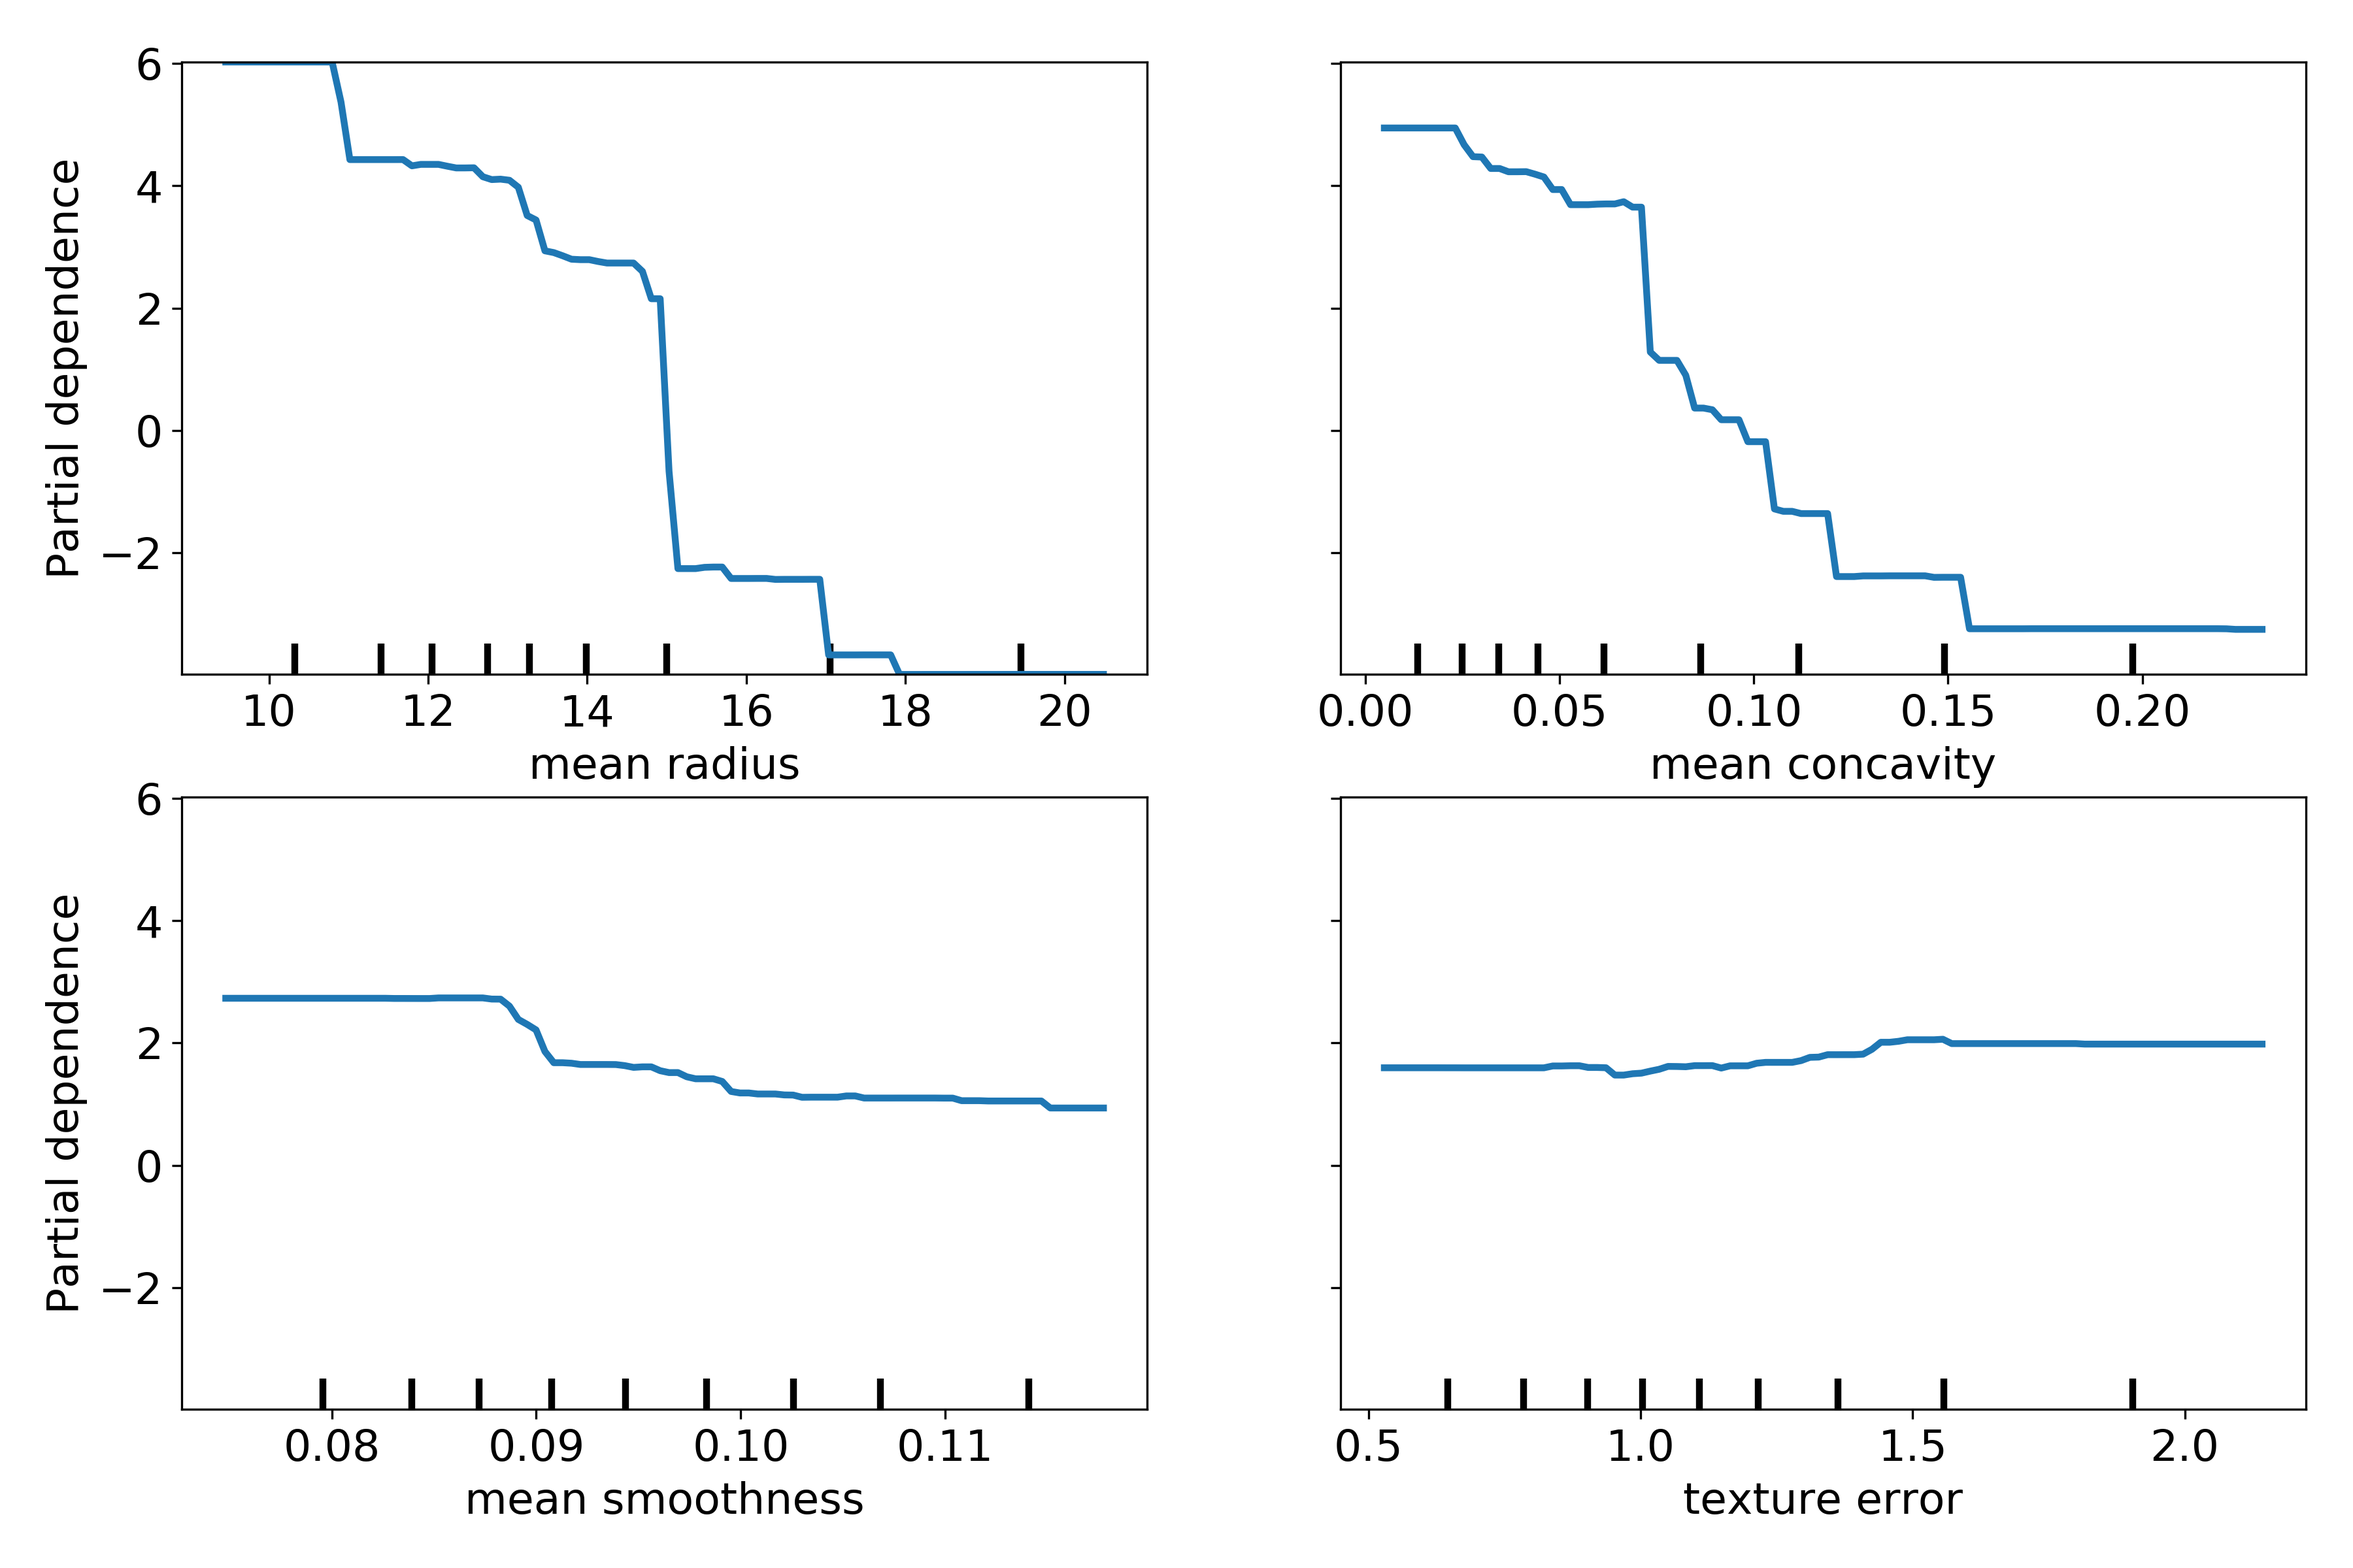
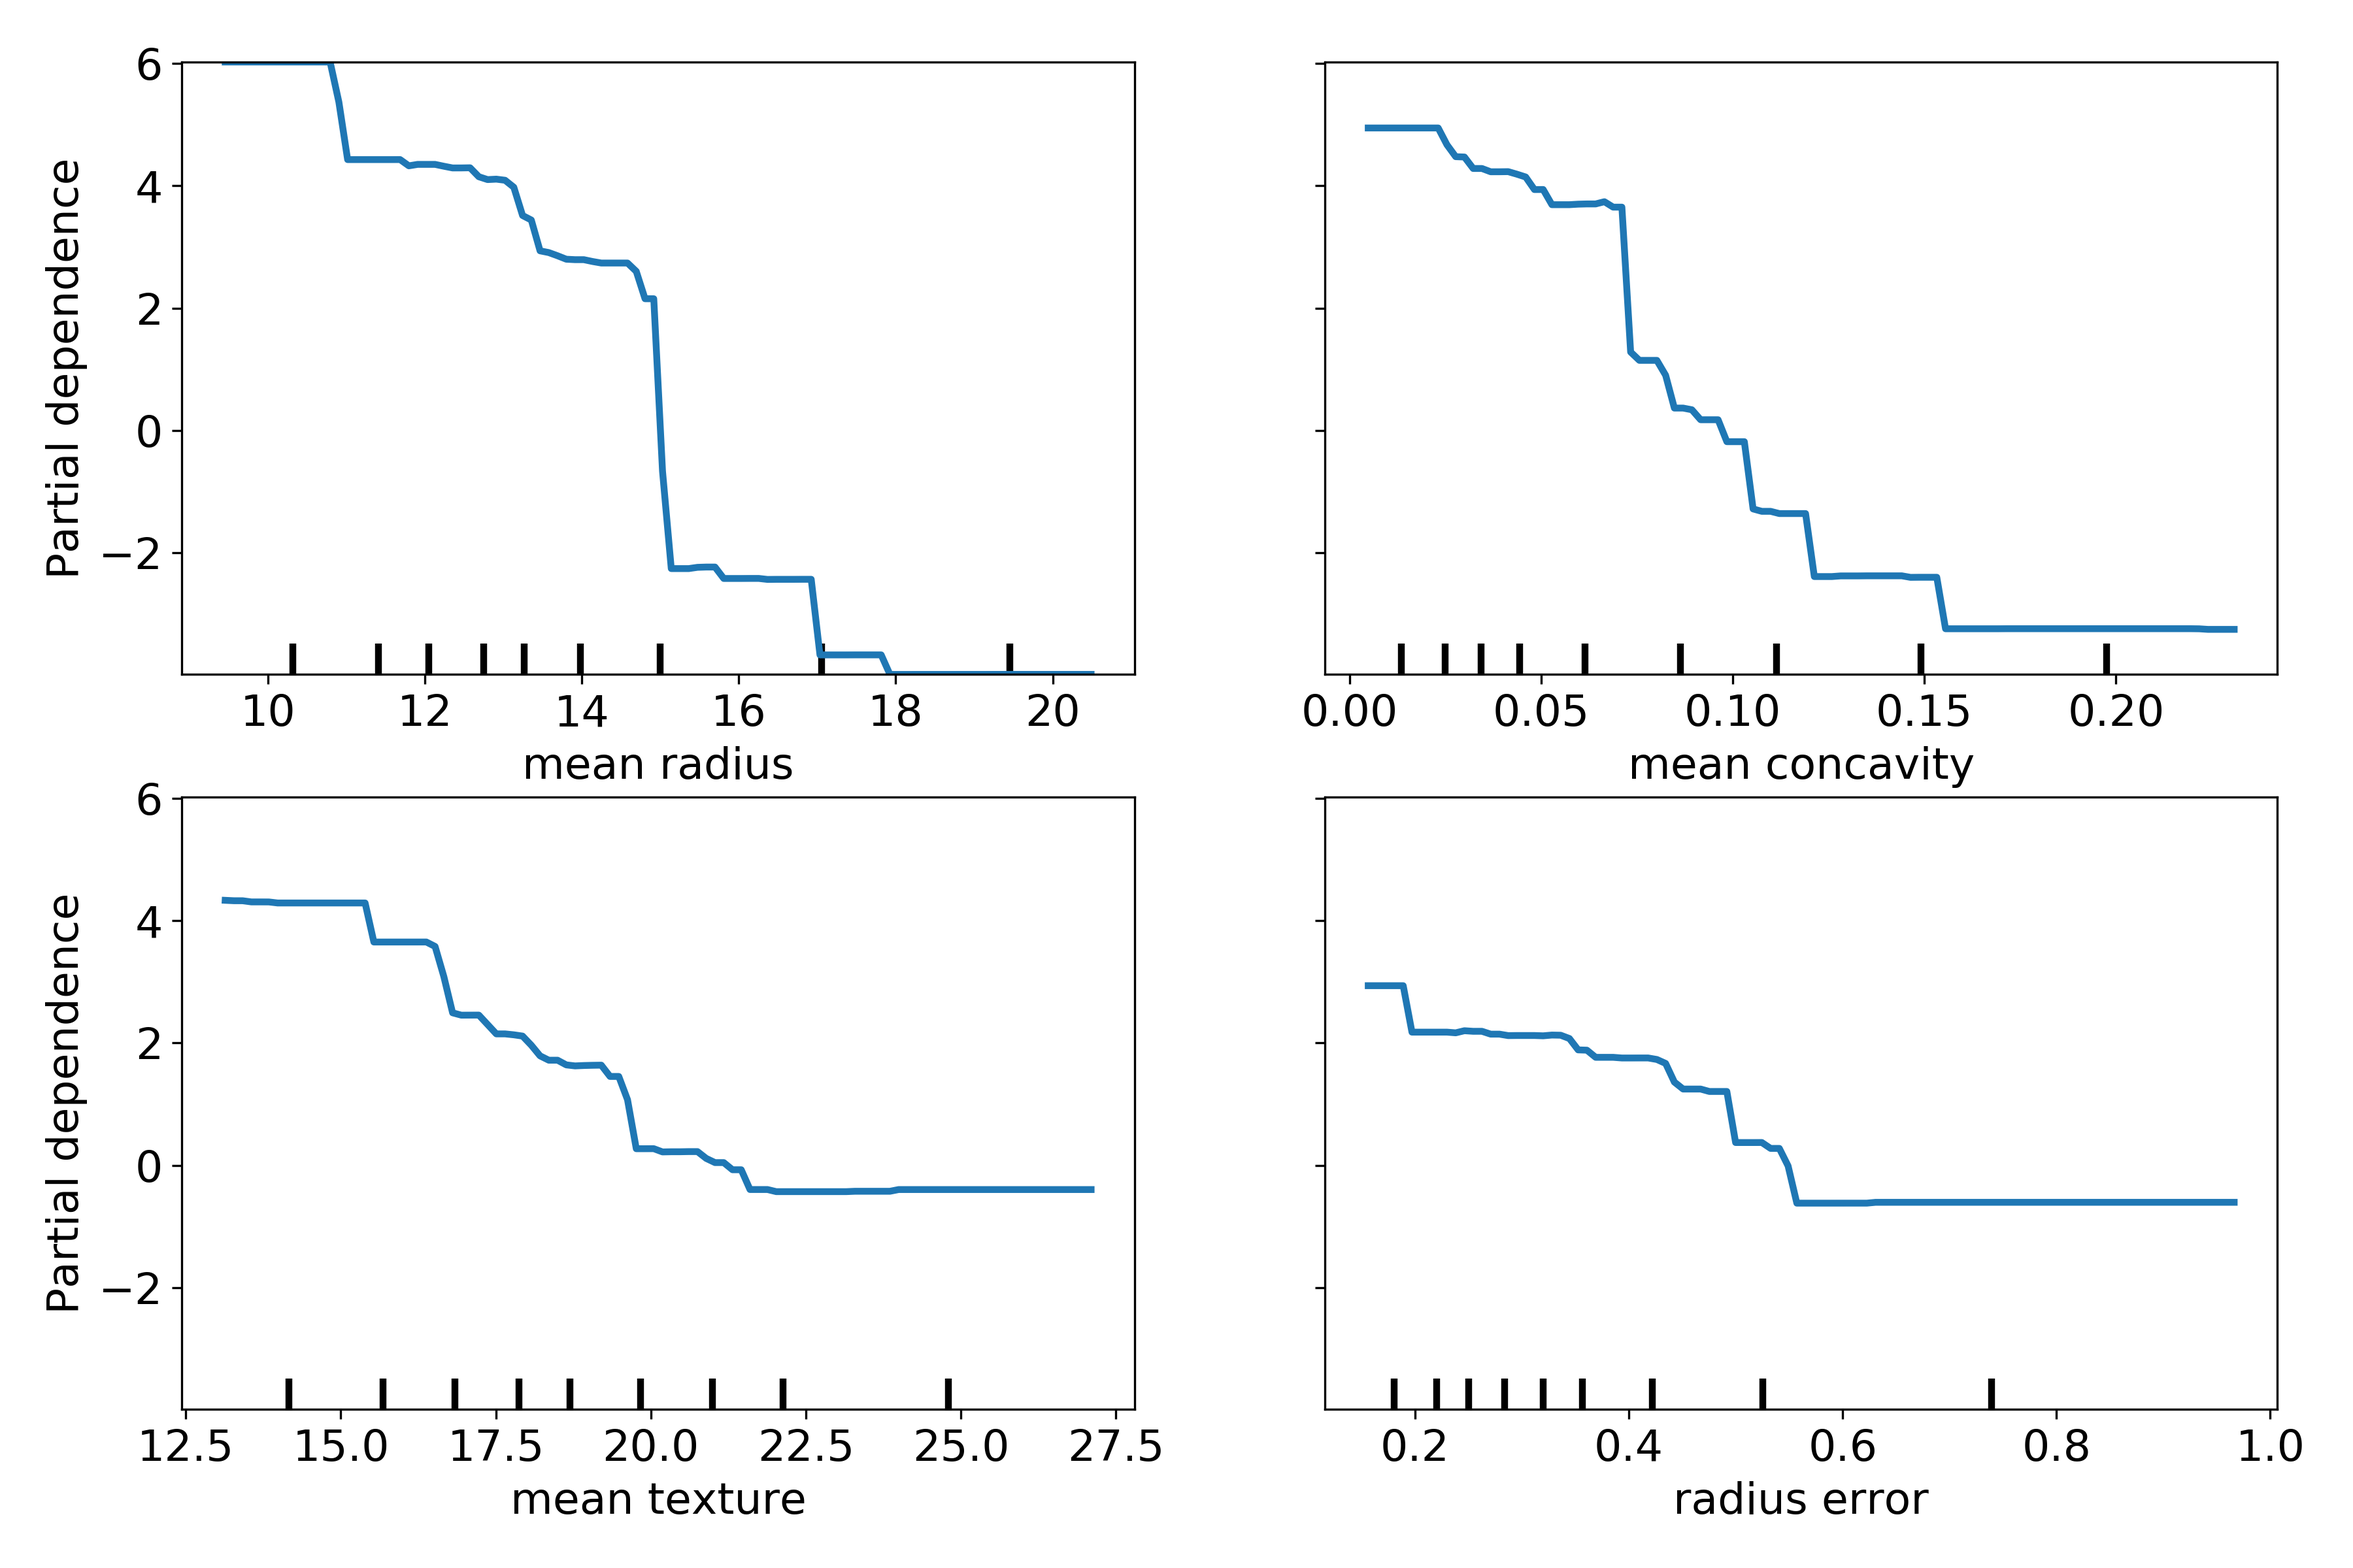
ENH Update

diff --git a/presentation.md b/presentation.md
@@ -10,6 +10,15 @@ Thomas J Fan
 Scikit-learn Core Developer
 @thomasjpfan
 
+# Supervised learning  📖
+
+$$
+y = f(X)
+$$
+
+- X of shape `(n_samples, n_features)`
+- y of shape `(n_samples,)`
+
 # scikit-learn API  🛠
 
 ```py
@@ -21,16 +30,9 @@ clf = HistGradientBoostingClassifier()
 clf.fit(X, y)
 
 clf.predict(X)
+
+clf.score(X, y)
 ```
-
-# Supervised learning  📖
-
-$$
-y = f(X)
-$$
-
-- X of shape `(n_samples, n_features)`
-- y of shape `(n_samples,)`
 
 # Tree?  🌳
 
@@ -41,12 +43,10 @@ $$
 ```py
 from sklearn.tree import DecisionTreeRegressor
 from sklearn.tree import DecisionTreeClassifier
-```
 
-- `max_depth=None`
-- `min_samples_split=2`
-- `min_samples_leaf=1`
-- etc...
+tree = DecisionTreeClassifier(max_depth=None,
+                              min_samples_leaf=1)
+```
 
 # Forest
 
@@ -113,7 +113,6 @@ rf_pruned.score(X_test, y_test)
 **Tree Building**
 
 - Pure Python?
-- Numpy?
 - Cython
 
 **Forest Building**
@@ -177,6 +176,7 @@ trees = Parallel(n_jobs=self.n_jobs,
 
 - @hug_nicolas - Associate Research Scientist @ Columbia University
 
+**Deep Dive into scikit-learn's HistGradientBoosting Classifier and Regressor**
 - [github.com/thomasjpfan/pydata-2019-histgradientboosting](https://github.com/thomasjpfan/pydata-2019-histgradientboosting)
 - [youtu.be/J9QQ6l_HToU](https://youtu.be/J9QQ6l_HToU)
 
@@ -232,7 +232,7 @@ where $$\eta$$ is the learning rate
 
 # Gradient Boosting 🏂 - `least_squares`
 
-- Let $$h_{m}(X)=(y - f_{m}(X))$$
+- Let $$h_{m}(X)=(y - f_m(X))$$
 
 $$
 f_{m+1}(X) = f_{m}(X) + \eta h_{m}(X)
@@ -267,7 +267,6 @@ $$
 # Implementation? 🤔
 
 - Pure Python?
-- Numpy?
 - Cython?
 - Cython + OpenMP!
 
@@ -283,6 +282,7 @@ $$
 
 # OpenMP! (Bin data 🗑, Pt 2)
 
+[.code-highlight: all]
 [.code-highlight: 1]
 
 ```py
@@ -356,8 +356,17 @@ for i in prange(n_samples, schedule='static', nogil=True):
 
 # Hyperparameters (Boosting 🏂)
 
-- `learning_rate=0.1` ($$\eta$$)
-- `max_iter=100`
+```py
+from sklearn.experimental import enable_hist_gradient_boosting
+from sklearn.ensemble import HistGradientBoostingClassifier
+from sklearn.ensemble import HistGradientBoostingRegressor
+
+HistGradientBoostingRegressor(learning_rate=0.1,
+                              max_iter=100,
+                              ...)
+```
+
+- `export OMP_NUM_THREADS=12`
 
 # Benchmarks 🚀 (HIGGS Pt 1)
 
@@ -378,7 +387,7 @@ for i in prange(n_samples, schedule='static', nogil=True):
 
 # Benchmarks 🚀 (HIGGS Pt 3)
 
-`export OMP_NUM_THREADS=4` `max_iter=100` (on my laptop)
+`export OMP_NUM_THREADS=4` `max_iter=100`
 
 | library  | time (12 cores) | time (4 cores) |
 |----------|------|---------|
@@ -519,7 +528,7 @@ numerical_pipe = Pipeline([
     ('imputer', SimpleImputer(strategy='mean'))
 ])
 
-preprocessing = ColumnTransformer(
+col_transformer = ColumnTransformer(
     [('cat', categorical_pipe, categorical_columns),
      ('num', numerical_pipe, numerical_columns)])
 ```
@@ -532,7 +541,7 @@ preprocessing = ColumnTransformer(
 
 ```py
 rf = Pipeline([
-    ('preprocess', preprocessing),
+    ('preprocess', col_transformer),
     ('classifier', RandomForestClassifier())
 ])
 
@@ -746,9 +755,10 @@ hist.score(X_test_sel, y_test)
 # Partial Dependence With Cancer Data (Pt 2)
 
 ```py
+from sklearn.inspection import plot_partial_dependence
+
 disp = plot_partial_dependence(
-    hist, X_train_sel,
-    n_cols=2,
+    hist, X_train_sel, n_cols=2,
     features=['mean radius', 'mean concavity',
               'mean texture', 'radius error'],
     feature_names=selected_feature_names)
@@ -763,9 +773,10 @@ disp.figure_.tight_layout()
 # Partial Dependence With Cancer Data (Pt 3)
 
 ```py
+from sklearn.inspection import plot_partial_dependence
+
 disp = plot_partial_dependence(
-    hist, X_train_sel,
-    n_cols=2,
+    hist, X_train_sel, n_cols=2,
     features=['mean radius', 'mean concavity',
               'mean smoothness', 'texture error'],
     feature_names=selected_feature_names)
